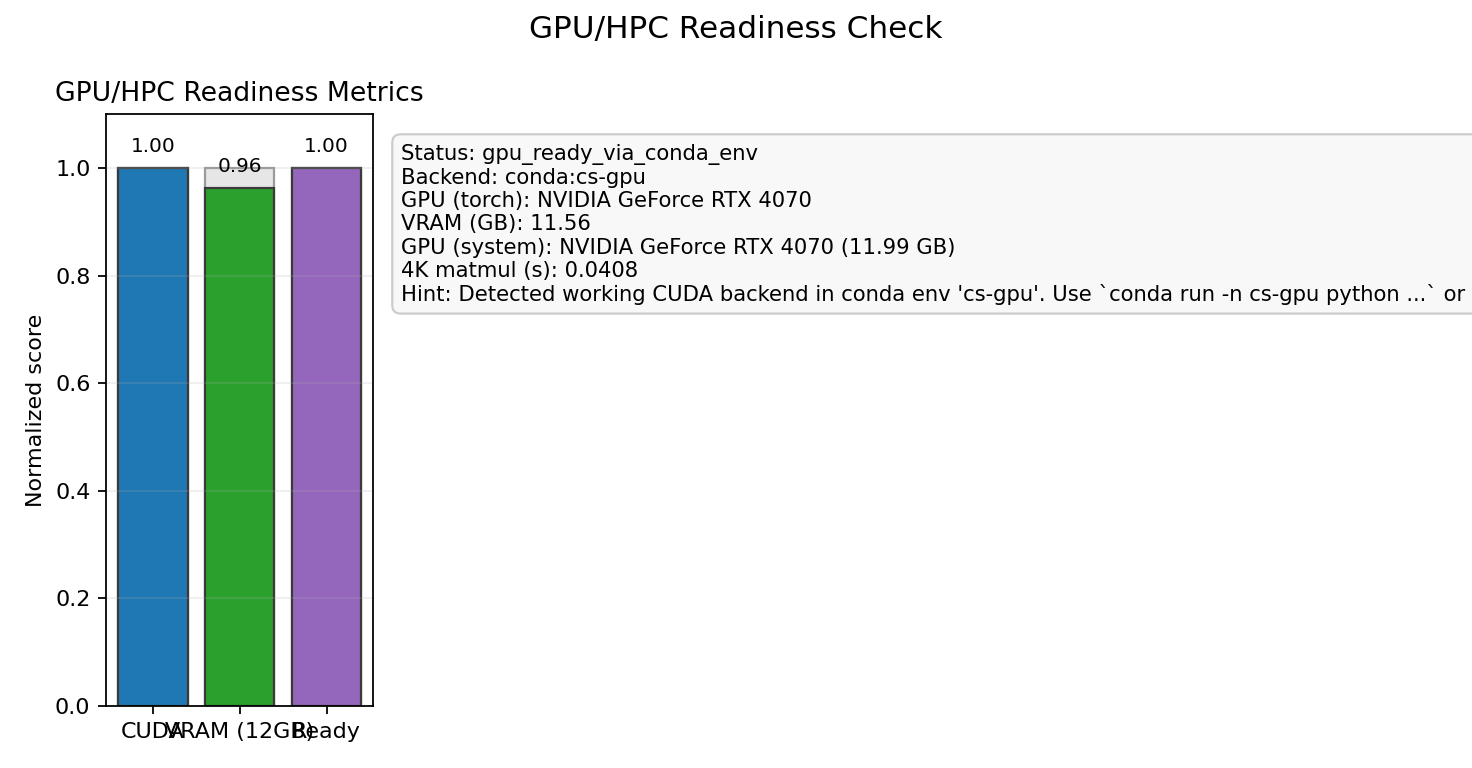
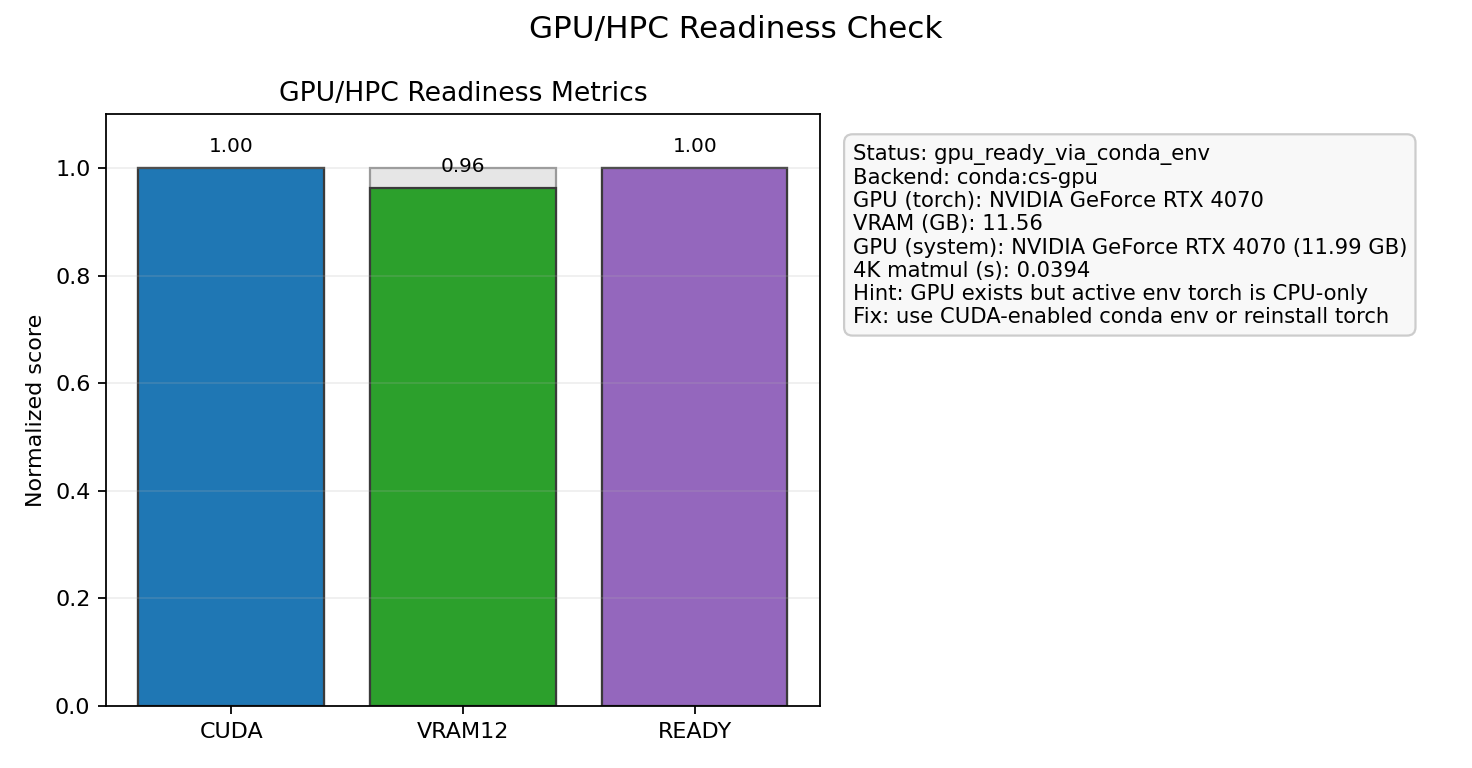
fix(hpc): add one-liner escalation policy and improve chart readability
Document required install escalation guidance across skills, add CUDA one-liners to interactive-dashboards SKILL.md, and update GPU readiness plot labels/status text so output is readable and actionable.

diff --git a/scientific-skills/interactive-dashboards/scripts/verify_gpu_hpc.py b/scientific-skills/interactive-dashboards/scripts/verify_gpu_hpc.py
@@ -139,7 +139,7 @@ def main():
         min(float(res["total_vram_gb"]), 12.0) / 12.0,
         1.0 if res["recommended_for_12gb"] else 0.0,
     ]
-    labels = ["CUDA", "VRAM (12GB)", "Ready"]
+    labels = ["CUDA", "VRAM12", "READY"]
     colors = ["#1f77b4", "#2ca02c", "#9467bd"]
 
     fig, (ax1, ax2) = plt.subplots(
@@ -151,6 +151,7 @@ def main():
     ax1.set_ylim(0, 1.1)
     ax1.set_ylabel("Normalized score")
     ax1.set_title("GPU/HPC Readiness Metrics")
+    ax1.tick_params(axis="x", labelrotation=0)
     ax1.grid(axis="y", alpha=0.2)
     for idx, val in enumerate(vals):
         ax1.text(idx, val + 0.03, f"{val:.2f}", ha="center", fontsize=9)
@@ -172,7 +173,8 @@ def main():
         lines.append("4K matmul (s): n/a")
 
     if res.get("config_hint"):
-        lines.append(f"Hint: {res['config_hint']}")
+        lines.append("Hint: GPU exists but active env torch is CPU-only")
+        lines.append("Fix: use CUDA-enabled conda env or reinstall torch")
     elif res["cuda_available"]:
         lines.append("Next: run torch/cuDF benchmark profile")
     else:

diff --git a/docs/scientific-skills.md b/docs/scientific-skills.md
@@ -1,5 +1,13 @@
 # Scientific Skills
 
+## Install Escalation (All Skills)
+
+If a skill needs a system-level dependency the agent cannot resolve in-session (driver install, privileged package install, reboot-required setup), follow `docs/install-escalation-policy.md` and provide:
+
+- reason it cannot be auto-fixed,
+- copy-paste one-liner command,
+- verification one-liner.
+
 ## Scientific Databases
 
 - **AlphaFold DB** - Comprehensive AI-predicted protein structure database from DeepMind providing 200M+ high-confidence protein structure predictions covering UniProt reference proteomes and beyond. Includes confidence metrics (pLDDT for per-residue confidence, PAE for pairwise accuracy estimates), structure quality assessment, predicted aligned error matrices, and multiple structure formats (PDB, mmCIF, AlphaFold DB format). Supports programmatic access via REST API, bulk downloads through Google Cloud Storage, and integration with structural analysis tools. Enables structure-based drug discovery, protein function prediction, structural genomics, comparative modeling, and structural bioinformatics research without experimental structure determination
@@ -210,4 +218,3 @@
 
 ### Document Processing
 - **XLSX** - Spreadsheet creation, editing, and analysis with support for formulas, formatting, data analysis, and visualization
-

diff --git a/docs/install-escalation-policy.md b/docs/install-escalation-policy.md
@@ -1,0 +1,37 @@
+# Install Escalation Policy (All Skills)
+
+When a skill requires system-level installation that cannot be completed by the agent in the current environment, the skill response must:
+
+1. State the exact reason it cannot be auto-resolved.
+2. Provide a copy-paste one-liner command for the user.
+3. Provide a quick verification command.
+
+## Required Response Pattern
+
+- Reason: what is missing and why agent cannot finish it (system package, driver, kernel module, privileged install, reboot).
+- One-liner: command user can paste in terminal.
+- Verify: command proving the fix worked.
+
+## Common One-Liners
+
+### CUDA-enabled PyTorch (conda)
+
+```bash
+conda create -y -n cs-gpu python=3.11 && conda activate cs-gpu && conda install -y pytorch pytorch-cuda=12.4 -c pytorch -c nvidia
+```
+
+### NVIDIA driver/tools (Ubuntu/Debian, requires sudo)
+
+```bash
+sudo apt-get update && sudo apt-get install -y nvidia-driver-550 nvidia-utils-550
+```
+
+### Verification
+
+```bash
+nvidia-smi && python - <<'PY'
+import torch
+print(torch.__version__, torch.version.cuda, torch.cuda.is_available())
+print(torch.cuda.get_device_name(0) if torch.cuda.is_available() else 'no-gpu')
+PY
+```

diff --git a/scientific-skills/interactive-dashboards/SKILL.md b/scientific-skills/interactive-dashboards/SKILL.md
@@ -24,3 +24,29 @@ This skill adds lightweight dashboard scaffolds for scientific workflows.
 - `examples/streamlit-demo/`: interactive phenotype explorer
 - `examples/shiny-demo/`: Python Shiny-style interactive trait dashboard
 - `scripts/verify_gpu_hpc.py`: local GPU/HPC readiness check for NVIDIA systems
+
+## CUDA Setup (One-Liners)
+
+If `nvidia-smi` works but the checker reports CPU-only torch, run one of these:
+
+```bash
+conda create -y -n cs-gpu python=3.11 && conda activate cs-gpu && conda install -y pytorch pytorch-cuda=12.4 -c pytorch -c nvidia
+```
+
+Or install into the active conda environment:
+
+```bash
+conda install -y pytorch pytorch-cuda=12.4 -c pytorch -c nvidia
+```
+
+If your system is missing `nvidia-smi`, this is a system-level driver/toolkit issue the agent cannot fix inside a user env. Use (Ubuntu/Debian):
+
+```bash
+sudo apt-get update && sudo apt-get install -y nvidia-driver-550 nvidia-utils-550
+```
+
+Then reboot and rerun:
+
+```bash
+python scripts/verify_gpu_hpc.py --json
+```
